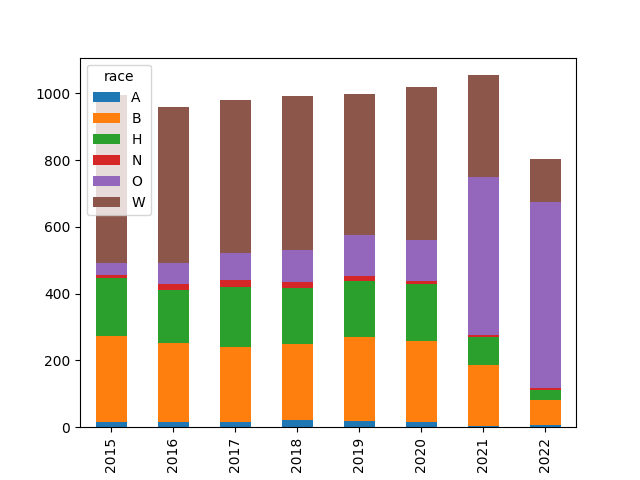
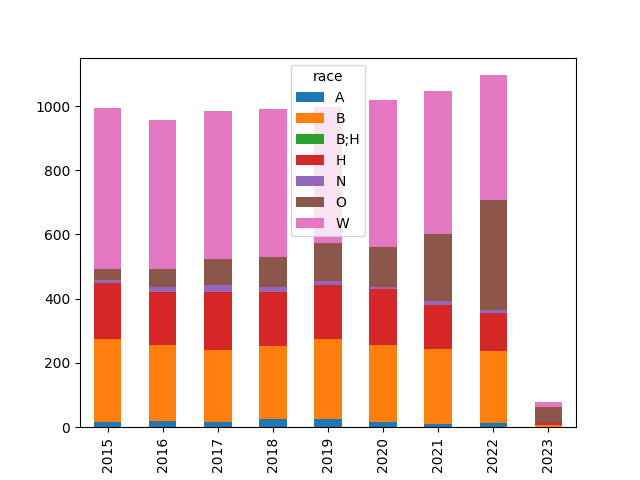
--

diff --git a/en/2023/01/us-crime.md b/en/2023/01/us-crime.md
@@ -11,7 +11,7 @@ All Deaths by Police Shootings, by Race
 ```python
 import pandas as pd
 
-f = 'https://raw.githubusercontent.com/washingtonpost/data-police-shootings/master/fatal-police-shootings-data.csv'
+f = 'https://raw.githubusercontent.com/washingtonpost/data-police-shootings/master/v2/fatal-police-shootings-data.csv'
 df = pd.read_csv(f)
 df['year'] = pd.to_datetime(df['date']).dt.year
 df['race'] = df['race'].fillna('O')

diff --git a/en/README.md b/en/README.md
@@ -1,4 +1,7 @@
 
+
+---
+
 "@ashleygjovik@mstdn.social
 
 The weather alerts for the SF Bay Area are terrifying
